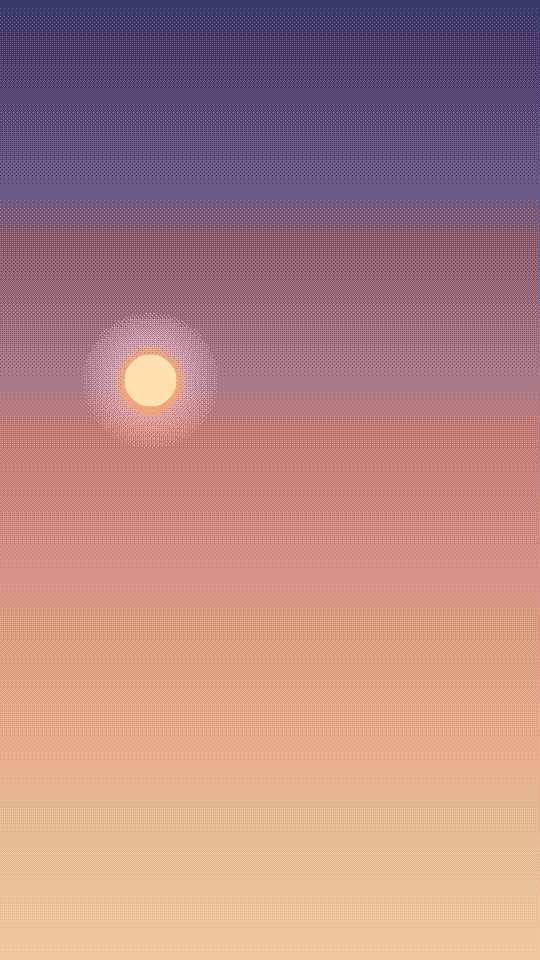
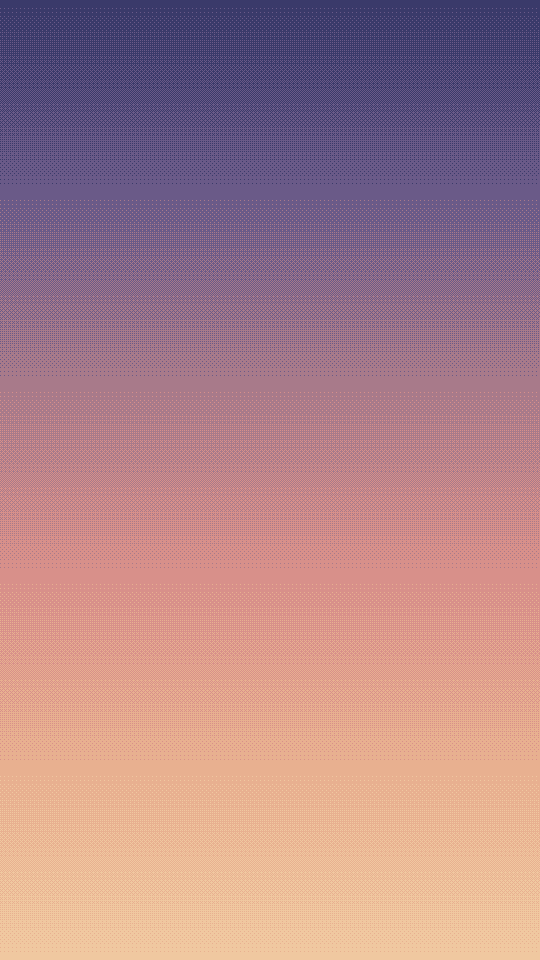
Kalender: 2. kalite kontrol turu düzeltmeleri (güneş/ay konumları, yaziY, tabut, atlı gruplar, kadraj)
Claude-Session: https://claude.ai/code/session_01XLxygqyFFVQPS5MtEC993Y

Changed region(s): [[0.1481, 0.3125, 0.4148, 0.4688]]

diff --git a/video/src/sahneler/Kalender.tsx b/video/src/sahneler/Kalender.tsx
@@ -71,7 +71,7 @@ export const KALENDER: Seri = {
       ],
     },
     {
-      no: 82, yakin: 2.2, kamera: 20, sprite: { w: 380, h: 170, fps: 10, x: 270, taban: 630 },
+      no: 82, yakin: 2.2, kamera: 20, yaziY: 1120, sprite: { w: 380, h: 170, fps: 10, x: 270, taban: 630 },
       yazilar: [
         { satirlar: ["O ay parçası gibi güzel yüze", "âşık olmayan her gönül,", "sana gönül denmez;"], sure: 5.25 },
         { satirlar: ["çünkü taş parçasından", "geri kalır yanın yok."], sure: 2.49 },
@@ -99,7 +99,7 @@ export const KALENDER: Seri = {
       ],
     },
     {
-      no: 86, yakin: 2.2, kamera: 15, sprite: { w: 400, h: 170, fps: 10, x: 270, taban: 630 },
+      no: 86, yakin: 2.2, kamera: 15, yaziY: 1120, sprite: { w: 400, h: 170, fps: 10, x: 270, taban: 630 },
       yazilar: [
         { satirlar: ["İyilerin keman kaşları niçin", "siyahtır, bilir misin?"], sure: 4.63 },
         { satirlar: ["Çünkü onların gönül", "dumanının köşelerinden", "halk güç almaktadır."], sure: 3.67 },

diff --git a/video/src/sahneler/TimurSeri.tsx b/video/src/sahneler/TimurSeri.tsx
@@ -65,6 +65,7 @@ export type Bolum = {
   sarsinti?: number; // savaş anında kamera sarsıntısı (px)
   odakY?: number; // yakın çekimin odak satırı (ızgara y); verilmezse sprite tabanı
   mektup?: { metin: string[]; imza: string };
+  yaziY?: number; // ekran yazısının üst kenarı (px); gökyüzündeki ay/güneş yazıyla çakışmasın diye aşağı alınabilir
   yazilar: { satirlar: string[]; sure: number; boy?: number; renk?: string }[];
 };
 
@@ -304,7 +305,7 @@ export const SeriVideo: React.FC<{ seri: Seri }> = ({ seri }) => {
     b.yazilar.forEach((y, j) => {
       parcalar.push(
         <Sequence key={`y${i}-${j}`} from={sn(ty)} durationInFrames={sn(y.sure)}>
-          <Yazi satirlar={y.satirlar} sure={sn(y.sure)} boy={y.boy} renk={y.renk} />
+          <Yazi satirlar={y.satirlar} sure={sn(y.sure)} boy={y.boy} renk={y.renk} y={b.yaziY} />
         </Sequence>,
       );
       ty += y.sure;

diff --git a/video/piksel/kalender.py b/video/piksel/kalender.py
@@ -63,23 +63,23 @@ def sahne72():
 def sahne73():
     """Herat: Timur (ata) ve tahtta oğlu Şahruh; arkada Herat silüeti ve türbe. Altın saat."""
     gokyuzu(73, ["#5a5a98", "#8a78a8", "#d09aa0", "#f0b890", "#f8d8a0", "#fce8b8"],
-            (420, 360, 30, ["#fff4d0", "#ffd890"]), [],
+            None, [],
             ("#fff4e0", "#f4dcc8", "#d8a8a0"))
     uzak(73, ["#7a6a98", "#8a7aa0"], ["#9a82a0", "#a88aa0"], ["#c89a98", "#b88a90", "#a87a84"],
          dag_y=(400, 455), tepe_y=462)
     orta(73, (524, 558), ["#a8885a", "#987a50", "#887048", "#78603e", "#685036"], "#d8b878",
          ekle=lambda img, z: [
              figur(img, orta_asya_sehri, PAY + 10, PAY + 330, duz(588), 2.2, tohum=73),
-             figur(img, gur_i_emir, PAY + 430, duz(588), 1.5)])
+             figur(img, gur_i_emir, PAY + 345, duz(588), 1.4)])
     on(73, ["#685036", "#887048", "#78603e"], "#d8b878")
 
     def kare(t, z, i):
         f = i / KARE
-        figur(t, tug, 105, z, 1.4, f)                                              # flamalar dalgalanır
-        figur(t, timur, 190, z, 3.0, 1, silah="kilic",
+        figur(t, tug, 182, z, 1.5, f)                                              # flamalar dalgalanır
+        figur(t, timur, 222, z, 3.0, 1, silah="kilic",
               kol=0.25 + 0.1 * math.sin(f * 2 * math.pi), yasli=True)
-        ust = figur(t, sedir, 355, z, 3.2, renk="#8a6a3a", ortu="#2a6a3a")
-        figur(t, oturan, 355, duz(ust, t.width), 2.7, govde="#2a6a3a", bas="sorguc",
+        ust = figur(t, sedir, 332, z, 3.0, renk="#8a6a3a", ortu="#2a6a3a")
+        figur(t, oturan, 332, duz(ust, t.width), 2.7, govde="#2a6a3a", bas="sorguc",
               bas_renk="#e0b040", sakal="#2a1a12", yon=-1)
 
     sprite(73, "karakter", 540, 170, KARE, kare)
@@ -89,23 +89,23 @@ def sahne73():
 def sahne74():
     """Baysungur'un akademisi: hattat, nakkaş, müzehhip; Baysungur ve çocuk Bâbür. İç mekân, kandil."""
     ic_mekan(74, duvar=("#4a3626", "#5a4430", "#6a5238"), kemer="#2a1a14", cini="#2a8a8a",
-             pencere=("#f0c890", "#fff4d8"), zemin_renk=("#5a4a3a", "#4a3c2e", "#3e3226"),
+             pencere=("#b88a50", "#e8d0a0"), zemin_renk=("#5a4a3a", "#4a3c2e", "#3e3226"),
              isik="#f8c060", hali=True)
 
     def kare(t, z, i):
         f = i / KARE
         kandil(t, 215, 0, f, 56)
         kandil(t, 335, 0, (f + 0.4) % 1, 56)
-        for x, govde, bas, bas_renk, minder in ((175, "#8a3a2a", "#2a1a12", None, "#8a2a2a"), (240, "#2a6a5a", None, None, "#6a4a2a"),
-                                                (305, "#6a4a8a", "#2a1a12", None, "#2a4a6a")):
+        for x, govde, bas, bas_renk, minder in ((192, "#8a3a2a", "#2a1a12", None, "#8a2a2a"), (248, "#2a6a5a", None, None, "#6a4a2a"),
+                                                (304, "#6a4a8a", "#2a1a12", None, "#2a4a6a")):
             rahle(t, x + 11, z[0], 2.6)                                            # her ustanın önünde rahle ve kâğıt
-            figur(t, oturan, x, z, 2.8, govde=govde, bas="sarik" if x != 240 else "bork",
-                  bas_renk="#e8e0cc" if x != 240 else "#5a3a22", sakal=bas, el="kalem", minder=minder)
-        kitaplar(t, 150, z[0], 2.4)
-        kitaplar(t, 335, z[0], 2.2)
-        figur(t, kisi, 352, z, 3.0, govde="#2a3a6a", bas="sorguc", bas_renk="#e0b040",
+            figur(t, oturan, x, z, 2.8, govde=govde, bas="sarik" if x != 248 else "bork",
+                  bas_renk="#e8e0cc" if x != 248 else "#5a3a22", sakal=bas, el="kalem", minder=minder)
+        kitaplar(t, 176, z[0], 2.2)
+        kitaplar(t, 318, z[0], 1.8)
+        figur(t, kisi, 336, z, 3.0, govde="#2a3a6a", bas="sorguc", bas_renk="#e0b040",
               sakal="#2a1a12", yon=-1, kol=0.2 + 0.1 * math.sin(f * 2 * math.pi))   # Baysungur
-        figur(t, kisi, 382, z, 2.1, govde="#8a7a5a", bas="bork", bas_renk="#5a3a22",
+        figur(t, kisi, 356, z, 2.1, govde="#8a7a5a", bas="bork", bas_renk="#5a3a22",
               yon=-1)                                                               # çocuk Bâbür (kadraj içi)
 
     sprite(74, "karakter", 540, 200, KARE, kare)
@@ -115,7 +115,7 @@ def sahne74():
 def sahne75():
     """Baysungur'un cenazesi: omuzlarda abanoz tabut, önde çocuk Bâbür. Alacakaranlık."""
     gokyuzu(75, ["#3a3a6a", "#6a5a88", "#a87a8a", "#d8908a", "#e8b090", "#f0c8a0"],
-            (150, 380, 26, ["#ffe0b0", "#f0a878"]), [],
+            None, [],
             ("#f0d8d0", "#d8b0b0", "#a88090"))
     uzak(75, ["#5a5a88", "#6a6a90"], ["#7a6a88", "#8a7088"], ["#8a6a78", "#7a5a6a", "#6a4a5c"],
          dag_y=(400, 455), tepe_y=462)
@@ -128,7 +128,7 @@ def sahne75():
 
     def kare(t, z, i):
         f = i / KARE
-        abanoz_tabut(ImageDraw.Draw(t), 165, 340, z[0] - 26)  # omuzlarda: kisi s=2.6 omuz ≈ y-10s; başlar tabutun önünde kalır
+        abanoz_tabut(ImageDraw.Draw(t), 178, 338, z[0] - 20)  # göğüs-omuz hizası: başlar tabutun üstünde görünür
         for j, x in enumerate((180, 225, 285, 325)):                               # taşıyıcılar
             figur(t, kisi, x, z, 2.6, govde="#24202c", bas="bork", bas_renk="#2a2420",
                   yon=1, adim=(f + (j % 2) * 0.5) % 1)
@@ -142,7 +142,7 @@ def sahne75():
 def sahne76():
     """Herat sarayı avlusu: asalı derviş şehzade yürür, saray ehli bakar. Gündüz."""
     gokyuzu(76, ["#7aa0c8", "#a8c0d0", "#d8d0c0", "#f4dcb0", "#f8e4b8"],
-            (110, 360, 26, ["#fff8e0", "#ffe8b0"]), [],
+            None, [],
             ("#fff8ec", "#f4e4d0", "#d8c4b0"))
     uzak(76, ["#8a9ab0", "#9aa8b8"], ["#a8b4a0", "#b4bc9c"], ["#c4c090", "#b4b080", "#a4a070"],
          dag_y=(400, 455), tepe_y=462)
@@ -187,13 +187,13 @@ def sahne77():
 def sahne78():
     """Kapıda sadaka (rivayet): Kalender yoksula altın verir. Öğleden sonra."""
     gokyuzu(78, ["#7aa0c8", "#a8c0d0", "#d8d0c0", "#f4dcb0", "#f8e4b8"],
-            (420, 360, 26, ["#fff8e0", "#ffe8b0"]), [],
+            None, [],
             ("#fff8ec", "#f4e4d0", "#d8c4b0"))
     uzak(78, ["#8a9ab0", "#9aa8b8"], ["#a8b4a0", "#b4bc9c"], ["#c4c090", "#b4b080", "#a4a070"],
          dag_y=(400, 455), tepe_y=462)
     orta(78, (524, 558), ["#b8a870", "#a89860", "#988850", "#887842", "#786838"], "#e0d090",
          ekle=lambda img, z: [
-             figur(img, anadolu_kalesi, PAY + 120, PAY + 470, duz(588), 1.8),
+             figur(img, orta_asya_sehri, PAY + 100, PAY + 440, duz(588), 2.2, tohum=78),
              kalabalik(img, duz(596), PAY + 20, PAY + 130, 28, 78, ("#6a5a4a", "#5a4a3a"),
                        s=1.5, yon=1)])
     on(78, ["#786838", "#988850", "#887842"], "#e0d090")
@@ -206,14 +206,14 @@ def sahne78():
               sakal="#3a2a1a", yon=1, kol=0.6)                                      # yoksul, eli açık
         figur(t, kisi, 262, z, 3.0, govde="#8a7a5a", bas="sarik", bas_renk="#e8e0cc",
               sakal="#2a1a12", yon=-1,
-              kol=0.2 + 0.4 * (0.5 - 0.5 * math.cos(f * 2 * math.pi)))              # Kalender, yoksula 50 px
+              kol=0.45)                                                             # Kalender, kolu yoksula uzanık
         d = ImageDraw.Draw(t)
-        d.ellipse([244, z[0] - 8, 256, z[0] - 1], fill=hex2("#7a5a34"), outline=hex2("#2a1a10"))  # yerde kese
-        if 0.35 < f < 0.75:                                                         # altın sikke elden ele (3x3 px)
-            p = (f - 0.35) / 0.4
-            xk = int(252 - 32 * p)
-            yk = int(z[0] - 50 - 12 * math.sin(p * math.pi))
-            d.rectangle([xk - 1, yk - 1, xk + 1, yk + 1], fill=hex2("#f8d860"), outline=hex2("#a07820"))
+        if 0.3 < f < 0.8:                                                           # altın kese elden ele (5x5 px, parlak)
+            p = (f - 0.3) / 0.5
+            xk = int(250 - 30 * p)
+            yk = int(z[0] - 46 - 10 * math.sin(p * math.pi))
+            d.rectangle([xk - 2, yk - 2, xk + 2, yk + 2], fill=hex2("#ffe070"), outline=hex2("#a07820"))
+            piksel(t, xk, yk - 3, hex2("#fff8c0"))
 
     sprite(78, "karakter", 540, 170, KARE, kare)
 
@@ -222,31 +222,31 @@ def sahne78():
 def sahne79():
     """Şahruh'un cenazesi; arkada birbirine düşen torunlar (karşılıklı atlı gruplar). Bulutlu gün."""
     gokyuzu(79, ["#8a9ab0", "#a8b0b8", "#c8c0b8", "#e0d0b8", "#ece0c4"],
-            (400, 360, 22, ["#fffbe8", "#f4e8c8"]), [],
+            None, [],
             ("#f4f0ea", "#d8d4d0", "#a8a8b0"))
     uzak(79, ["#7a8498", "#8a92a4"], ["#98a09c", "#a4aaa0"], ["#b4b090", "#a4a080", "#949070"],
          dag_y=(400, 455), tepe_y=462)
     orta(79, (526, 560), ["#a09870", "#908862", "#807854", "#706a48", "#625c40"], "#c8c090",
          ekle=lambda img, z: [
              figur(img, orta_asya_sehri, PAY + 250, PAY + 520, duz(588), 2.0, tohum=79),
-             kalabalik(img, duz(596), PAY + 20, PAY + 230, 26, 79, ("#2a2430", "#3a3038"),
-                       s=1.1, yon=-1),
-             figur(img, atli, PAY + 470, duz(584), 1.1, 1, dur=True, zirh="#9aa2ac",
+             kalabalik(img, duz(596), PAY + 220, PAY + 330, 22, 79, ("#2a2430", "#3a3038"),
+                       s=1.4, yon=-1),
+             figur(img, atli, PAY + 168, duz(586), 1.4, 1, dur=True, zirh="#9aa2ac",
                    silah="mizrak", bayrak="#8a1e22"),
-             figur(img, atli, PAY + 490, duz(584), 1.1, 1, dur=True, zirh="#9aa2ac",
+             figur(img, atli, PAY + 196, duz(586), 1.4, 1, dur=True, zirh="#9aa2ac",
                    silah="mizrak", bayrak="#8a1e22"),
-             figur(img, atli, PAY + 540, duz(584), 1.1, -1, dur=True, zirh="#9aa2ac",
+             figur(img, atli, PAY + 352, duz(586), 1.4, -1, dur=True, zirh="#9aa2ac",
                    silah="mizrak", bayrak="#2a5a8a"),
-             figur(img, atli, PAY + 560, duz(584), 1.1, -1, dur=True, zirh="#9aa2ac",
+             figur(img, atli, PAY + 380, duz(586), 1.4, -1, dur=True, zirh="#9aa2ac",
                    silah="mizrak", bayrak="#2a5a8a")])
     on(79, ["#625c40", "#807854", "#706a48"], "#c8c090")
 
     def kare(t, z, i):
         f = i / KARE
-        for j, x in enumerate((210, 250, 310, 350)):
-            figur(t, kisi, x, z, 2.5, govde="#24202c", bas="sarik", bas_renk="#2a2420",
+        abanoz_tabut(ImageDraw.Draw(t), 200, 358, z[0] - 20)
+        for j, x in enumerate((212, 252, 308, 346)):
+            figur(t, kisi, x, z, 2.6, govde="#24202c", bas="sarik", bas_renk="#2a2420",
                   yon=-1, adim=(f + (j % 2) * 0.5) % 1)
-        abanoz_tabut(ImageDraw.Draw(t), 200, 360, z[0] - 27)
 
     sprite(79, "karakter", 540, 170, KARE, kare)
 
@@ -255,7 +255,7 @@ def sahne79():
 def sahne80():
     """Ordu Herat kapısına: atlı Kalender elinde kılıç, arkasında iki atlı; orta planda ordu ve tuğ."""
     gokyuzu(80, ["#6a9ad0", "#98b8dc", "#c8d8e0", "#f0e4c0", "#f8ecc8"],
-            (110, 360, 28, ["#fffbe8", "#fff0b8"]), [],
+            None, [],
             ("#ffffff", "#f0eef0", "#c8ccd8"))
     uzak(80, ["#7a9ab8", "#8aa6c0"], ["#98b098", "#a4bc98"], ["#c4c488", "#b4b478", "#a4a468"],
          dag_y=(400, 455), tepe_y=462)
@@ -271,13 +271,13 @@ def sahne80():
 
     def kare(t, z, i):
         f = i / KARE
-        figur(t, atli, 145, z, 2.9, 1, faz=(f + 0.71) % 1, at_renk="#5a3a22", yele="#2b1a12",
+        figur(t, atli, 178, z, 2.9, 1, faz=(f + 0.71) % 1, at_renk="#5a3a22", yele="#2b1a12",
               govde="#6a2a2a", bas="migfer", bas_renk="#9aa2ac", silah="mizrak", adim=0.45,
               zirh="#9aa2ac")
-        figur(t, atli, 235, z, 2.9, 1, faz=(f + 0.37) % 1, at_renk="#6b3f24", yele="#2b1a12",
+        figur(t, atli, 258, z, 2.9, 1, faz=(f + 0.37) % 1, at_renk="#6b3f24", yele="#2b1a12",
               govde="#7a1e22", bas="migfer", bas_renk="#9aa2ac", silah="mizrak", adim=0.45,
               zirh="#9aa2ac")
-        figur(t, atli, 330, z, 2.9, 1, faz=f, at_renk="#3a2a22", yele="#1a1210",
+        figur(t, atli, 342, z, 2.9, 1, faz=f, at_renk="#3a2a22", yele="#1a1210",
               govde="#8a7a5a", bas="sarik", bas_renk="#e8e0cc", sakal="#2a1a12",
               silah="kilic", kol=0.6, adim=0.45)                                    # Kalender
 
@@ -308,7 +308,7 @@ def sahne81():
 def sahne82():
     """Beyit 1: gece gökyüzü, dolunay; Kalender aya bakar, yanında taş yığını."""
     gokyuzu(82, ["#0a1228", "#16204a", "#26306a", "#3a407a", "#4a4a84"],
-            (350, 506, 22, ["#fff8e0", "#f4e8b8"]), [],
+            (330, 380, 26, ["#fff8e0", "#f4e8b8"]), [],
             ("#8890b8", "#6a70a0", "#4a5088"), yildiz=70)                            # dolunay kadraj içinde (yakin 2.2'de görünür y ≥ 340)
     uzak(82, ["#1e2a52", "#26305a"], ["#2a3460", "#323c68"], ["#2a3254", "#242c4a", "#1e2640"],
          dag_y=(400, 455), tepe_y=462)
@@ -331,7 +331,7 @@ def sahne82():
 def sahne83():
     """Beyit 2: gün batımı, büyük gül ve düşen yaprak."""
     gokyuzu(83, ["#4a2a5a", "#8a3a62", "#c85a5a", "#e88a58", "#f4b868", "#f8d890"],
-            (270, 370, 30, ["#fff0c0", "#ffb868"]), [],
+            (300, 452, 26, ["#fff0c0", "#ffb868"]), [],
             ("#f8d0b8", "#e0a090", "#a86078"))
     uzak(83, ["#6a3a62", "#7a4268"], ["#8a4a68", "#9a5870"], ["#a8607a", "#985470", "#884a66"],
          dag_y=(400, 455), tepe_y=462)
@@ -356,31 +356,31 @@ def sahne83():
 def sahne84():
     """Beyit 3: Nevruz, bahar bahçesi; ağaç altında kadehli Kalender, dilberler, gül."""
     gokyuzu(84, ["#78b0e0", "#a0c8e8", "#c8def0", "#e8eed8", "#f8f0d0"],
-            (90, 360, 26, ["#fffbe8", "#fff0b8"]), [],
+            None, [],
             ("#ffffff", "#eef0f8", "#c8d0e0"))
     uzak(84, ["#7a9ab8", "#8aa8c0"], ["#90b090", "#a0bc98"], ["#a8c878", "#98b868", "#88a858"],
          dag_y=(400, 455), tepe_y=462)
-    orta(84, (524, 558), ["#7aa850", "#6a9844", "#5a8838", "#4c7830", "#406a2a"], "#b8e078",
+    orta(84, (524, 558), ["#8aa868", "#7a985c", "#6a8850", "#5c7846", "#4e683c"], "#b8d088",
          ekle=lambda img, z: [
              cicekler(img, z, ["#f4d24a", "#e86a8a", "#ffffff", "#8a6ae0"], 84, adet=60,
                       derinlik=26),
-             figur(img, agac, PAY + 60, duz(590), 1.6,
+             figur(img, agac, PAY + 185, duz(590), 1.7,
                    yaprak=("#d8789a", "#f0a0b8", "#f8d0d8"), govde="#4a3022", tohum=84),
-             figur(img, agac, PAY + 470, duz(590), 1.6,
+             figur(img, agac, PAY + 350, duz(590), 1.5,
                    yaprak=("#d8789a", "#f0a0b8", "#f8d0d8"), govde="#4a3022", tohum=85)])
     on(84, ["#406a2a", "#5a8838", "#4c7830"], "#b8e078")
 
     def kare(t, z, i):
         f = i / KARE
-        figur(t, agac, 262, duz(z[0] - 4, t.width), 2.0, yaprak=("#d8789a", "#f0a0b8", "#f8d0d8"),
-              govde="#4a3022", tohum=84, sallanma=math.sin(f * 2 * math.pi))        # ağaç arkada, Kalender altında
+        figur(t, agac, 312, z, 2.6, yaprak=("#d8789a", "#f0a0b8", "#f8d0d8"),
+              govde="#4a3022", tohum=84, sallanma=math.sin(f * 2 * math.pi))        # ağaç Kalender'in yanında, gövdesi zeminde görünür
         figur(t, kisi, 185, z, 2.8, govde="#c8508a", bas="ortu", bas_renk="#f0d0e0",
               kadin=True, yon=1)
         figur(t, kisi, 218, z, 2.8, govde="#8a5ac8", bas="ortu", bas_renk="#e8d0f0",
               kadin=True, yon=1)
         figur(t, oturan, 262, z, 2.9, govde="#6a7a5a", bas="sarik", bas_renk="#e8e0cc",
               sakal="#2a1a12", yon=-1, el="kase", minder="#8a2a2a")
-        for gx, gs, gf in ((305, 3.0, f), (330, 2.4, (f + 0.4) % 1), (352, 2.7, (f + 0.7) % 1)):   # gül çalısı
+        for gx, gs, gf in ((352, 3.0, f), (372, 2.4, (f + 0.4) % 1), (388, 2.7, (f + 0.7) % 1)):   # gül çalısı
             figur(t, cicek, gx, z, gs, gf, "#c8302a", "#f4d24a")
         for j in range(6):                                                          # düşen yapraklar
             y = 20 + ((f + j / 6) % 1) * (z[0] - 20)
@@ -413,7 +413,7 @@ def sahne85():
 def sahne86():
     """Beyit 5: gece, ince ay, mangaldan yükselen gönül dumanı, halk."""
     gokyuzu(86, ["#0a1228", "#16204a", "#26306a", "#3a407a", "#4a4a84"],
-            (352, 508, 10, ["#f4ecd0", "#c8c0a0"]), [],
+            (340, 385, 12, ["#f4ecd0", "#c8c0a0"]), [],
             ("#8890b8", "#6a70a0", "#4a5088"), yildiz=90)
     uzak(86, ["#1e2a52", "#26305a"], ["#2a3460", "#323c68"], ["#2a3254", "#242c4a", "#1e2640"],
          dag_y=(400, 455), tepe_y=462)
@@ -445,7 +445,7 @@ def sahne87():
         figur(img, taslar, PAY + 70, duz(588), 1.2)
 
     gokyuzu(87, ["#3a2a5a", "#7a3a6a", "#c05a5a", "#e88a58", "#f4b868", "#f8d890"],
-            (400, 370, 32, ["#fff0c0", "#ffb868"]), [],
+            (300, 452, 26, ["#fff0c0", "#ffb868"]), [],
             ("#f8d0b8", "#e0a090", "#a86078"))
     uzak(87, ["#8a5a62", "#9a6a68"], ["#aa7a6a", "#ba8a70"], ["#c89a78", "#b88a6c", "#a87a60"],
          dag_y=(400, 455), tepe_y=462)
@@ -487,7 +487,7 @@ def sahne88():
 def sahne89():
     """Kapanış: alacakaranlık, uzaklaşan derviş silüeti, silik Herat ve mavi türbe."""
     gokyuzu(89, ["#1a1a3a", "#3a2a5a", "#7a3a6a", "#c05a62", "#e88a60", "#f4b878"],
-            (270, 370, 28, ["#fff0c0", "#ffb868"]), [],
+            (300, 452, 26, ["#fff0c0", "#ffb868"]), [],
             ("#f0d0d0", "#d8a8b0", "#a07088"), yildiz=50)
     uzak(89, ["#3a2a52", "#4a3258"], ["#5a3a5e", "#6a4264"], ["#6a4668", "#5a3a5a", "#4a304c"],
          dag_y=(400, 455), tepe_y=462)

diff --git a/teslimler/2026-10-29-timurun-soyundan-kalender.md b/teslimler/2026-10-29-timurun-soyundan-kalender.md
@@ -1,7 +1,7 @@
 # SKONSTART teslimi
 
 - **İş:** Timur'un Soyundan Kalender: Ebu'l-Kâsım Bâbür Kalender Mîrzâ'nın hikâyesi, altı beyitlik gazeliyle; 3 dakikalık dikey video (Reels/TikTok), seslendirme vcvcvc.
-- **Tarih:** 2026-10-29 18:27
+- **Tarih:** 2026-10-29 18:37
 - **Durum:** ONAY BEKLİYOR
 - **Kalite kontrol:** revizyon sınırına ulaşıldı, son notlar aşağıda
 
@@ -989,13 +989,43 @@ Kod notu: tarif video/piksel/kalender.py olarak çizildi (18 sahne, taban_deneti
 
 ## 🔴 Kalite Kontrol · Kalite kontrol notu
 
-GENEL: Yazılar tüm karelerde okunuyor. Jersey 10 doğru ve Türkçe harfler (ç, ğ, ı, İ, ö, ş, ü, â) net. Metinler TSX ile birebir. Piksel tarzı, dither gökyüzü, katmanlar ve zemin kuralı büyük oranda tutuyor. Ancak aşağıdaki sorunlar nedeniyle iş ajans sahibine gidemez. Grafiker düzeltmeli. 1) kare-002s (Sahne 72, Kanca): sol kenarda muhafız yarım kesik, sağ kenarda kâtip yarım kesik. Kâtibin yazdığı görünmüyor. 'Bir elinde kılıç, öbüründe şiir' iki yan figürle anlatılıyor, yani kanca bozuk. Düzeltme: muhafız ve kâtibi tahta yaklaştırıp kadraja tam sığdır (sprite x değerlerini görünür aralığa çek), figürleri büyüt. 2) kare-013s (Sahne 74, Akademi): sağ kenarda Baysungur kesik, çocuk Bâbür kadrajda yok. Üç usta küçük, yerde oturuyor. Rahle, kâğıt, kitap ya da mürekkep yok, bu yüzden 'Hattatlar, nakkaşlar, müzehhipler' okunmuyor. Düzeltme: Baysungur ve çocuk Bâbür'ü kadraja al (x 360/405 sığmıyor), ustalara rahle ya da kitap ekle, figür boyunu büyüt. 3) kare-017s (Sahne 75, cenaze): çocuk Bâbür ayırt edilemiyor. Tabut taşıyıcıların başını ve omuzlarını kapatıyor, yalnızca bacaklar ve alt gövde görünüyor. Tabut taşınmıyor, havada duruyor gibi okunuyor. Tabutun üstünde üç küçük yas tutan baş var. Düzeltme: abanoz_tabut omuz y'sini (z[0]-58 tahmini) taşıyıcı omuzlarına göre ayarla, taşıyıcı başları tabutun üstünde görünsün, çocuk Bâbür öne alınıp kadraja sığsın. 4) kare-021s (Sahne 76): 'Saray ehli şaşkınlıkla bakar' okunmuyor. Surun dibindeki 4 figür birkaç piksel boyunda. Kalender'in asası seçilmiyor. Düzeltme: saray ehlini büyüt (s 1.1 yerine 1.6-1.8), Kalender'in asasını belirgin yap. 5) kare-028s (Sahne 78, sadaka): yoksul (x≈100) ile Kalender (x≈405) arası yaklaşık 300 px uzak. Sikkenin 90 px'lik yolu bu aralığı kapatmıyor, sadaka eylemi okunmuyor. Kadın sol kenarda kesik, kadrajda yok sayılır. Sikke 2 px olduğu için bu ölçekte zaten görünmez. Düzeltme: Kalender ve yoksulu birbirine yaklaştır (60 px altı), Kalender'in yönü ve kol uzanışını yoksula çevir, kadını kadraja al, sikke ve kese ikonunu büyüt (en az 6-8 px). 6) kare-033s ve kare-037s (Sahne 80): 037s'de Kalender'in atının başı sağ kenarda kesik, soldaki atlı yarım kesik. Orta planda 'ordu ve tuğ' yok, yalnızca 1-2 minik figür var. 'Derviş ordu topluyor' görünmüyor. Düzeltme: atlıları kadraja sığdır (x ve kamera 40 kaymasını gözden geçir), orta plana belirgin kalabalık ve tuğ ekle, Herat kapısı görünür olsun. 7) kare-046s (Sahne 82): dolunay sağ üst köşede çeyrek görünüyor, kesik. Koyu bulut başlık satırı ile ilk altyazı satırı arasındaki bantta (x≈830-880) duruyor. Kural: yazı bandına bulut gelmez. kare-037s'de de bulut başlık satırının hemen yanında sol üstte duruyor. Düzeltme: gokyuzu bulutlarını y≥330 grid'e al, dolunayı kadraja tam sığdır, Kalender aya baksın. 8) kare-070s (Sahne 84): ağaç sağ kenarda kesik, Kalender ağaç altında değil, soldaki dilberlerden biri kenarda yarım. Tek bir gül var, 'gül, kadeh ve dilberler' kalabalık ve okunur değil. Düzeltme: ağacı Kalender'in arkasına çek (x≈250), dilberleri kadraja al, gül çalıları ekle, kadehi büyüt. 9) kare-095s (Sahne 86): duman mangalla bağlantılı değil, alt ucu mangaldan yaklaşık 50 px yukarıda başlıyor ve havada kalıyor. Mangalda kor ya da ateş görünmüyor. Planlanan ince ay kadrajda görünmüyor. Halk 3 minik figür. Düzeltme: duman başlangıcını mangalın ağzına indir (z[0]-34 değerini mangal üst y'sine göre ayarla), kor ekle, hilal ayı yazı bandı dışında bir yere koy, halkı büyüt. 10) Ölçek ve kadraj (002s, 013s, 021s, 046s, 095s, 152s): dış ve iç mekân karelerinde figür ekran yüksekliğinin yaklaşık %10-20'si kadar. Alt %35-45 boş çayır ya da halı. 'Figürler kadrajda büyük ve okunur' kuralı zayıf, yakin değerleri çıktıya yansımıyor görünüyor. Düzeltme: yakin'i artır ya da zemini aşağı çekip figür ölçeğini büyüt. 11) Dağ ve orman silüetleri (017s, 021s, 028s, 033s, 037s, 070s): tepeler yazı bandına kadar yükseliyor, planda dag_y 350-425 idi. Yazılar dış çizgiyle okunuyor ama bant kuralı ihlal ediliyor. Düzeltme: dag_y değerlerini gerçek çıktıda planla eşleştir. 12) Zamanlama kontrolü: ekranda sahne zamanları plandan çok farklı. Örnek: Sahne 78 28. sn'de (plan 0:50), Sahne 82 46. sn'de (plan 1:19), Sahne 88 123. sn'de (plan 2:06). Ses hizalaması (173,9 sn) sonucu olabilir. Grafiker hizala_seri çıktısını kalender-vcvcvc-take1.mp3 ile bire bir doğrulasın. Ayrıca Kalender.tsx'te kapak alanı boş, Reels kapağı (büyük başlık, alt başlık, logo, @pikseltarihim, 3:4 alan) kontrol edilemedi, hazırlanmalı. İYİ: 123s (Sahne 88) ve 152s (Sahne 89) kareleri sahne planıyla uyumlu, zemine oturuyor ve okunuyor. Düzeltmelerden sonra bu kareler yeniden kontrol edilecek.
+Metin, seslendirme ve ekran yazılarının içeriği ajans sahibinin onayına uygun; metin tarafında revizyon yok. Sorunlar görsel ve kod tarafında, bu yüzden iş grafikere dönüyor. Verilen 12 kareye (003, 014, 028, 034, 040, 052, 062, 070, 080, 096, 112, 130 sn) baktım. 130. sn sonrası kareler (Sahne 85†, 87†, 89 ve kapanış) verilmedi, o bölümü değerlendiremedim. Revizyondan sonra bu karelerin de gönderilmesi gerekir.
+
+SORUNLAR (önem sırasına göre)
+1) kare-096s, Sahne 84 (Nevruz bahçesi), kadrajın ortası: Pembe ağaç tacı Kalender'in başının hemen üstünde duruyor. Taçla zemin arasında gövde görünmüyor, taç havada asılı gibi. Kod notundaki planda üç ağaç vardı (arkada iki, sprite katmanında bir), karede yalnızca bu taç var. Düzeltme: Ağaç gövdesi görünür olmalı ve tabanı zemine oturmalı (agac govde rengi, duz(590) ve sprite taban kontrolü). Taç gövdenin üstünde olmalı. Ağacı Kalender'in arkasına değil yanına kaydırın, yoksa gövde figürün arkasında kaybolur. Eksik ağaçlar (x=60, x=470, sprite x=380) neden çizilmedi kontrol edilsin.
+2) kare-080s (Sahne 82) ve kare-112s (Sahne 86): Plan 'dolunay, yıldızlı gök' (82) ve 'ince ay, yıldızlar' (86) diyor. Karelerde gökyüzü düz lacivert, ay ve yıldız göremedim. Beyit 1'in 'ay parçası gibi güzel yüz' imgesi ekranda yok. Düzeltme: gokyuzu() içindeki ay konumunu (şu an y=340, dağ katmanlarının arkasında kalıyor olabilir) ve yildiz parametresinin çalışmasını kontrol edin. Ay yazı bandının altında, dağ hattının üstünde görünür olmalı. Hilal (Sahne 86) için yedek çözüm olmadan gerçek bir hilal çizilsin.
+3) kare-034s (Sahne 75) ve kare-062s (Sahne 79), tabut taşıyıcıları: Abanoz tabut taşıyıcıların başlarına biniyor, yüzleri ve sarıkları örtülüyor (062'de sarıkların kırmızı uçları tabutun üstünden görünüyor). Tabut omuz hizasında olmalı. Düzeltme: abanoz_tabut omuz değerini (z[0]-58 tahminiydi) yaklaşık 12-15 piksel (540 ızgarası) aşağı çekin. Taşıyıcıların başları tabutun üstünde, omuzları altında kalsın. 034'te tabutun sol ucu kadraj kenarına yapışıyor, x aralığını biraz içeri alın.
+4) kare-062s (Sahne 79): Plandaki 'arkada birbirine düşen torunlar' (karşılıklı iki atlı grup) karede yok. Yalnızca şehir ve küçük yas tutanlar var. Atlı gruplar kamera kırpmasında (yakin 2.0, kamera 20) dışarıda kalmış olabilir. Düzeltme: Gruplar şehrin sağ ve sol yanına, kadrajın içine alınsın, yoksa 'Taht boşaldı' sonrası çatışma hissi kayboluyor.
+5) Kadraj kırpmaları: kare-028s (Sahne 74): soldaki hattat yarım, kadraj kenarında kesiliyor. Plandaki çocuk Bâbür karede görünmüyor. İç mekân yakınlaştırması 2.5'e çıkarılınca kenar figürler dışarıda kalmış. Düzeltme: x konumlarını içeri alın (hattat 150'den ~190'a, çocuk Bâbür Baysungur'un yanına) ya da bu sahnede yakın değerini 2.2'ye indirin. kare-014s (Sahne 73): Şahruh'un tahtı sağ kenarda yarım kesiliyor, sağ üstte gur_i_emir sütunu yarım görünüyor, Timur'un yanında plandaki tuğ kadrajda yok. Düzeltme: tahtı ve türbeyi kadraj içine alın (x 360'tan ~320'ye), tuğu Timur'un yanında görünür yapın. kare-070s (Sahne 80): en soldaki atlının gövdesi soldan kesilmiş, yalnızca at başı ve mızrak ucu görünüyor. Düzeltme: üç atlıyı kadraja sığacak şekilde sağa kaydırın (örn. 145, 235, 330 yerine ~175, 255, 340).
+6) Gökyüzü diski kesiliyor: kare-014s, 040s, 052s, 062s: Sağ üst köşede güneş diski yarım kesilmiş duruyor, hata gibi görünüyor. Düzeltme: güneşi kadrajın içine (yazı bandının dışında) alın ya da tamamen çıkarın.
+7) kare-052s (Sahne 78, sadaka): Altın sikke ve Kalender'in elinden yoksula uzanan kol okunmuyor. Kalender'in ayağında ne olduğu anlaşılmayan kahverengi bir nesne var. Duvar gri, Anadolu tarzı taş kale. Diğer Herat karelerindeki sıcak kerpiç sura (040, 062) uymuyor. Düzeltme: sikkeyi/keseyi 4-6 piksele büyütün ve parlak yapın, Kalender'in kolunu yoksula doğru uzatın, ayağındaki nesneyi kaldırın veya kese olarak netleştirin. Kaleyi Herat sur renklerine çevirin ya da orta_asya_sehri kullanın.
+8) Yazı okunurluğu: kare-130s (Sahne 88): 'Burada öldürülmekten başka hiçbir çare yok' soluk, düşük kontrastlı. Arkasında pencere kasaları ve karanlık duvar var. Bu kare geçiş solması olabilir. Tam opaklıktaki karede kontrol edin, yine soluksa yazıyı daha açık renk ve daha kalın dış konturla çizin. kare-028s: 'Hattatlar,' sözcüğü parlak krem pencerenin üstüne geliyor, kontrast zayıf. Pencere ışığını kısın ya da yazıya koyu zemin bandı/kontur ekleyin. kare-014s: ikinci satırın bir kısmı dağ siluetinin üstüne biniyor. Dağ ve ağaç hattı yazı bandının altında kalmalı. kare-080s: üçüncü satırın sağında noktalı (dither) bir doku/bulut parçası yazıya bitişik. 'Yazı bandına bulut gelmez' kuralı için bulutu aşağı alın. Türkçe harfler (ü, ö, ş, ı, İ, â, ç) tüm karelerde doğru ve net.
+9) Genel (düşük öncelik): Figürler kadraj yüksekliğinin yaklaşık %12-15'i kadar, alt yarı büyük oranda boş halı/çimen. Kuraldaki 'figürler kadrajda büyük ve okunur' ifadesi için özellikle iç mekânlarda (003, 028, 130) figür ölçeğini ya da kamera odağını biraz yükseltin. Ancak bunu kırpma sorunlarını (madde 5) çözerek yapın. 096'daki doygun parlak yeşil, diğer sahnelerin sakin pastel paletinden ayrışıyor, tonu biraz kısın.
+
+İYİ OLANLAR: 64-bit piksel tarzı, keskin kenarlar ve katmanlı derinlik tutarlı. Figürlerin zemine oturması genel olarak doğru (003, 034, 040, 052, 070, 096 kareleri). İç mekân kandil/mum ışığı doğru. Sahne ve yazı eşleşmesi 003, 014, 028, 034, 040, 052, 062, 070, 096 karelerinde plana uyuyor. Sahne 86'daki duman yukarı çıkıyor.
+
+Özet: Madde 1-4 ve 7 ağırlıklı olarak çözülmeden iş yayına çıkamaz. Düzeltilmiş render'ın yeniden kare kontrolüyle (özellikle 028, 034, 062, 070, 080, 096, 112 ve 130 sonrası kareler) bana gönderilmesi gerekir.
 
 ## 🔴 Kalite Kontrol · Görsel kontrol (render edilen kareler)
 
 **Karar:** UYGUN DEĞİL, düzeltecek birim: 🟢 Grafiker
 
-GENEL: Yazılar tüm karelerde okunuyor. Jersey 10 doğru ve Türkçe harfler (ç, ğ, ı, İ, ö, ş, ü, â) net. Metinler TSX ile birebir. Piksel tarzı, dither gökyüzü, katmanlar ve zemin kuralı büyük oranda tutuyor. Ancak aşağıdaki sorunlar nedeniyle iş ajans sahibine gidemez. Grafiker düzeltmeli. 1) kare-002s (Sahne 72, Kanca): sol kenarda muhafız yarım kesik, sağ kenarda kâtip yarım kesik. Kâtibin yazdığı görünmüyor. 'Bir elinde kılıç, öbüründe şiir' iki yan figürle anlatılıyor, yani kanca bozuk. Düzeltme: muhafız ve kâtibi tahta yaklaştırıp kadraja tam sığdır (sprite x değerlerini görünür aralığa çek), figürleri büyüt. 2) kare-013s (Sahne 74, Akademi): sağ kenarda Baysungur kesik, çocuk Bâbür kadrajda yok. Üç usta küçük, yerde oturuyor. Rahle, kâğıt, kitap ya da mürekkep yok, bu yüzden 'Hattatlar, nakkaşlar, müzehhipler' okunmuyor. Düzeltme: Baysungur ve çocuk Bâbür'ü kadraja al (x 360/405 sığmıyor), ustalara rahle ya da kitap ekle, figür boyunu büyüt. 3) kare-017s (Sahne 75, cenaze): çocuk Bâbür ayırt edilemiyor. Tabut taşıyıcıların başını ve omuzlarını kapatıyor, yalnızca bacaklar ve alt gövde görünüyor. Tabut taşınmıyor, havada duruyor gibi okunuyor. Tabutun üstünde üç küçük yas tutan baş var. Düzeltme: abanoz_tabut omuz y'sini (z[0]-58 tahmini) taşıyıcı omuzlarına göre ayarla, taşıyıcı başları tabutun üstünde görünsün, çocuk Bâbür öne alınıp kadraja sığsın. 4) kare-021s (Sahne 76): 'Saray ehli şaşkınlıkla bakar' okunmuyor. Surun dibindeki 4 figür birkaç piksel boyunda. Kalender'in asası seçilmiyor. Düzeltme: saray ehlini büyüt (s 1.1 yerine 1.6-1.8), Kalender'in asasını belirgin yap. 5) kare-028s (Sahne 78, sadaka): yoksul (x≈100) ile Kalender (x≈405) arası yaklaşık 300 px uzak. Sikkenin 90 px'lik yolu bu aralığı kapatmıyor, sadaka eylemi okunmuyor. Kadın sol kenarda kesik, kadrajda yok sayılır. Sikke 2 px olduğu için bu ölçekte zaten görünmez. Düzeltme: Kalender ve yoksulu birbirine yaklaştır (60 px altı), Kalender'in yönü ve kol uzanışını yoksula çevir, kadını kadraja al, sikke ve kese ikonunu büyüt (en az 6-8 px). 6) kare-033s ve kare-037s (Sahne 80): 037s'de Kalender'in atının başı sağ kenarda kesik, soldaki atlı yarım kesik. Orta planda 'ordu ve tuğ' yok, yalnızca 1-2 minik figür var. 'Derviş ordu topluyor' görünmüyor. Düzeltme: atlıları kadraja sığdır (x ve kamera 40 kaymasını gözden geçir), orta plana belirgin kalabalık ve tuğ ekle, Herat kapısı görünür olsun. 7) kare-046s (Sahne 82): dolunay sağ üst köşede çeyrek görünüyor, kesik. Koyu bulut başlık satırı ile ilk altyazı satırı arasındaki bantta (x≈830-880) duruyor. Kural: yazı bandına bulut gelmez. kare-037s'de de bulut başlık satırının hemen yanında sol üstte duruyor. Düzeltme: gokyuzu bulutlarını y≥330 grid'e al, dolunayı kadraja tam sığdır, Kalender aya baksın. 8) kare-070s (Sahne 84): ağaç sağ kenarda kesik, Kalender ağaç altında değil, soldaki dilberlerden biri kenarda yarım. Tek bir gül var, 'gül, kadeh ve dilberler' kalabalık ve okunur değil. Düzeltme: ağacı Kalender'in arkasına çek (x≈250), dilberleri kadraja al, gül çalıları ekle, kadehi büyüt. 9) kare-095s (Sahne 86): duman mangalla bağlantılı değil, alt ucu mangaldan yaklaşık 50 px yukarıda başlıyor ve havada kalıyor. Mangalda kor ya da ateş görünmüyor. Planlanan ince ay kadrajda görünmüyor. Halk 3 minik figür. Düzeltme: duman başlangıcını mangalın ağzına indir (z[0]-34 değerini mangal üst y'sine göre ayarla), kor ekle, hilal ayı yazı bandı dışında bir yere koy, halkı büyüt. 10) Ölçek ve kadraj (002s, 013s, 021s, 046s, 095s, 152s): dış ve iç mekân karelerinde figür ekran yüksekliğinin yaklaşık %10-20'si kadar. Alt %35-45 boş çayır ya da halı. 'Figürler kadrajda büyük ve okunur' kuralı zayıf, yakin değerleri çıktıya yansımıyor görünüyor. Düzeltme: yakin'i artır ya da zemini aşağı çekip figür ölçeğini büyüt. 11) Dağ ve orman silüetleri (017s, 021s, 028s, 033s, 037s, 070s): tepeler yazı bandına kadar yükseliyor, planda dag_y 350-425 idi. Yazılar dış çizgiyle okunuyor ama bant kuralı ihlal ediliyor. Düzeltme: dag_y değerlerini gerçek çıktıda planla eşleştir. 12) Zamanlama kontrolü: ekranda sahne zamanları plandan çok farklı. Örnek: Sahne 78 28. sn'de (plan 0:50), Sahne 82 46. sn'de (plan 1:19), Sahne 88 123. sn'de (plan 2:06). Ses hizalaması (173,9 sn) sonucu olabilir. Grafiker hizala_seri çıktısını kalender-vcvcvc-take1.mp3 ile bire bir doğrulasın. Ayrıca Kalender.tsx'te kapak alanı boş, Reels kapağı (büyük başlık, alt başlık, logo, @pikseltarihim, 3:4 alan) kontrol edilemedi, hazırlanmalı. İYİ: 123s (Sahne 88) ve 152s (Sahne 89) kareleri sahne planıyla uyumlu, zemine oturuyor ve okunuyor. Düzeltmelerden sonra bu kareler yeniden kontrol edilecek.
+Metin, seslendirme ve ekran yazılarının içeriği ajans sahibinin onayına uygun; metin tarafında revizyon yok. Sorunlar görsel ve kod tarafında, bu yüzden iş grafikere dönüyor. Verilen 12 kareye (003, 014, 028, 034, 040, 052, 062, 070, 080, 096, 112, 130 sn) baktım. 130. sn sonrası kareler (Sahne 85†, 87†, 89 ve kapanış) verilmedi, o bölümü değerlendiremedim. Revizyondan sonra bu karelerin de gönderilmesi gerekir.
+
+SORUNLAR (önem sırasına göre)
+1) kare-096s, Sahne 84 (Nevruz bahçesi), kadrajın ortası: Pembe ağaç tacı Kalender'in başının hemen üstünde duruyor. Taçla zemin arasında gövde görünmüyor, taç havada asılı gibi. Kod notundaki planda üç ağaç vardı (arkada iki, sprite katmanında bir), karede yalnızca bu taç var. Düzeltme: Ağaç gövdesi görünür olmalı ve tabanı zemine oturmalı (agac govde rengi, duz(590) ve sprite taban kontrolü). Taç gövdenin üstünde olmalı. Ağacı Kalender'in arkasına değil yanına kaydırın, yoksa gövde figürün arkasında kaybolur. Eksik ağaçlar (x=60, x=470, sprite x=380) neden çizilmedi kontrol edilsin.
+2) kare-080s (Sahne 82) ve kare-112s (Sahne 86): Plan 'dolunay, yıldızlı gök' (82) ve 'ince ay, yıldızlar' (86) diyor. Karelerde gökyüzü düz lacivert, ay ve yıldız göremedim. Beyit 1'in 'ay parçası gibi güzel yüz' imgesi ekranda yok. Düzeltme: gokyuzu() içindeki ay konumunu (şu an y=340, dağ katmanlarının arkasında kalıyor olabilir) ve yildiz parametresinin çalışmasını kontrol edin. Ay yazı bandının altında, dağ hattının üstünde görünür olmalı. Hilal (Sahne 86) için yedek çözüm olmadan gerçek bir hilal çizilsin.
+3) kare-034s (Sahne 75) ve kare-062s (Sahne 79), tabut taşıyıcıları: Abanoz tabut taşıyıcıların başlarına biniyor, yüzleri ve sarıkları örtülüyor (062'de sarıkların kırmızı uçları tabutun üstünden görünüyor). Tabut omuz hizasında olmalı. Düzeltme: abanoz_tabut omuz değerini (z[0]-58 tahminiydi) yaklaşık 12-15 piksel (540 ızgarası) aşağı çekin. Taşıyıcıların başları tabutun üstünde, omuzları altında kalsın. 034'te tabutun sol ucu kadraj kenarına yapışıyor, x aralığını biraz içeri alın.
+4) kare-062s (Sahne 79): Plandaki 'arkada birbirine düşen torunlar' (karşılıklı iki atlı grup) karede yok. Yalnızca şehir ve küçük yas tutanlar var. Atlı gruplar kamera kırpmasında (yakin 2.0, kamera 20) dışarıda kalmış olabilir. Düzeltme: Gruplar şehrin sağ ve sol yanına, kadrajın içine alınsın, yoksa 'Taht boşaldı' sonrası çatışma hissi kayboluyor.
+5) Kadraj kırpmaları: kare-028s (Sahne 74): soldaki hattat yarım, kadraj kenarında kesiliyor. Plandaki çocuk Bâbür karede görünmüyor. İç mekân yakınlaştırması 2.5'e çıkarılınca kenar figürler dışarıda kalmış. Düzeltme: x konumlarını içeri alın (hattat 150'den ~190'a, çocuk Bâbür Baysungur'un yanına) ya da bu sahnede yakın değerini 2.2'ye indirin. kare-014s (Sahne 73): Şahruh'un tahtı sağ kenarda yarım kesiliyor, sağ üstte gur_i_emir sütunu yarım görünüyor, Timur'un yanında plandaki tuğ kadrajda yok. Düzeltme: tahtı ve türbeyi kadraj içine alın (x 360'tan ~320'ye), tuğu Timur'un yanında görünür yapın. kare-070s (Sahne 80): en soldaki atlının gövdesi soldan kesilmiş, yalnızca at başı ve mızrak ucu görünüyor. Düzeltme: üç atlıyı kadraja sığacak şekilde sağa kaydırın (örn. 145, 235, 330 yerine ~175, 255, 340).
+6) Gökyüzü diski kesiliyor: kare-014s, 040s, 052s, 062s: Sağ üst köşede güneş diski yarım kesilmiş duruyor, hata gibi görünüyor. Düzeltme: güneşi kadrajın içine (yazı bandının dışında) alın ya da tamamen çıkarın.
+7) kare-052s (Sahne 78, sadaka): Altın sikke ve Kalender'in elinden yoksula uzanan kol okunmuyor. Kalender'in ayağında ne olduğu anlaşılmayan kahverengi bir nesne var. Duvar gri, Anadolu tarzı taş kale. Diğer Herat karelerindeki sıcak kerpiç sura (040, 062) uymuyor. Düzeltme: sikkeyi/keseyi 4-6 piksele büyütün ve parlak yapın, Kalender'in kolunu yoksula doğru uzatın, ayağındaki nesneyi kaldırın veya kese olarak netleştirin. Kaleyi Herat sur renklerine çevirin ya da orta_asya_sehri kullanın.
+8) Yazı okunurluğu: kare-130s (Sahne 88): 'Burada öldürülmekten başka hiçbir çare yok' soluk, düşük kontrastlı. Arkasında pencere kasaları ve karanlık duvar var. Bu kare geçiş solması olabilir. Tam opaklıktaki karede kontrol edin, yine soluksa yazıyı daha açık renk ve daha kalın dış konturla çizin. kare-028s: 'Hattatlar,' sözcüğü parlak krem pencerenin üstüne geliyor, kontrast zayıf. Pencere ışığını kısın ya da yazıya koyu zemin bandı/kontur ekleyin. kare-014s: ikinci satırın bir kısmı dağ siluetinin üstüne biniyor. Dağ ve ağaç hattı yazı bandının altında kalmalı. kare-080s: üçüncü satırın sağında noktalı (dither) bir doku/bulut parçası yazıya bitişik. 'Yazı bandına bulut gelmez' kuralı için bulutu aşağı alın. Türkçe harfler (ü, ö, ş, ı, İ, â, ç) tüm karelerde doğru ve net.
+9) Genel (düşük öncelik): Figürler kadraj yüksekliğinin yaklaşık %12-15'i kadar, alt yarı büyük oranda boş halı/çimen. Kuraldaki 'figürler kadrajda büyük ve okunur' ifadesi için özellikle iç mekânlarda (003, 028, 130) figür ölçeğini ya da kamera odağını biraz yükseltin. Ancak bunu kırpma sorunlarını (madde 5) çözerek yapın. 096'daki doygun parlak yeşil, diğer sahnelerin sakin pastel paletinden ayrışıyor, tonu biraz kısın.
+
+İYİ OLANLAR: 64-bit piksel tarzı, keskin kenarlar ve katmanlı derinlik tutarlı. Figürlerin zemine oturması genel olarak doğru (003, 034, 040, 052, 070, 096 kareleri). İç mekân kandil/mum ışığı doğru. Sahne ve yazı eşleşmesi 003, 014, 028, 034, 040, 052, 062, 070, 096 karelerinde plana uyuyor. Sahne 86'daki duman yukarı çıkıyor.
+
+Özet: Madde 1-4 ve 7 ağırlıklı olarak çözülmeden iş yayına çıkamaz. Düzeltilmiş render'ın yeniden kare kontrolüyle (özellikle 028, 034, 062, 070, 080, 096, 112 ve 130 sonrası kareler) bana gönderilmesi gerekir.
 
 ## 🔵 Araştırmacı · Araştırma
 
